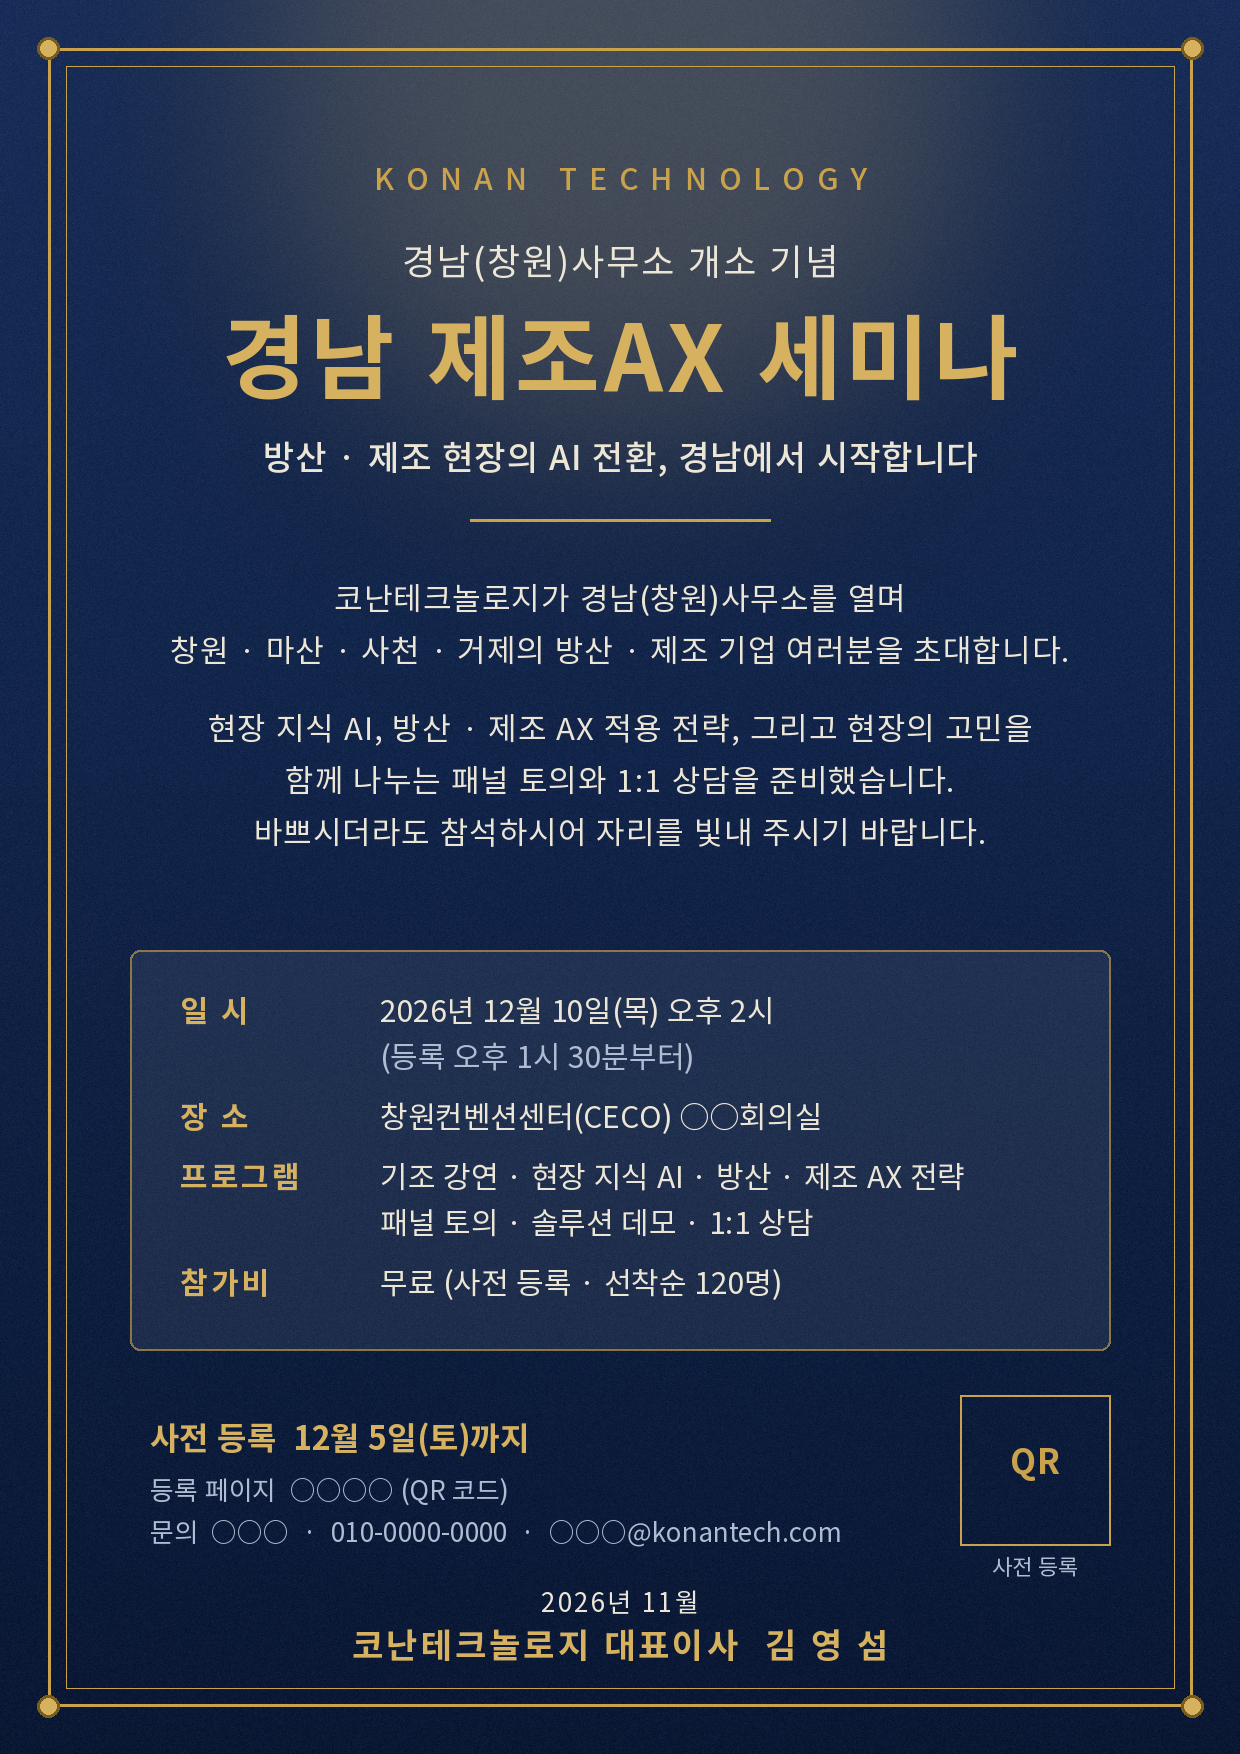
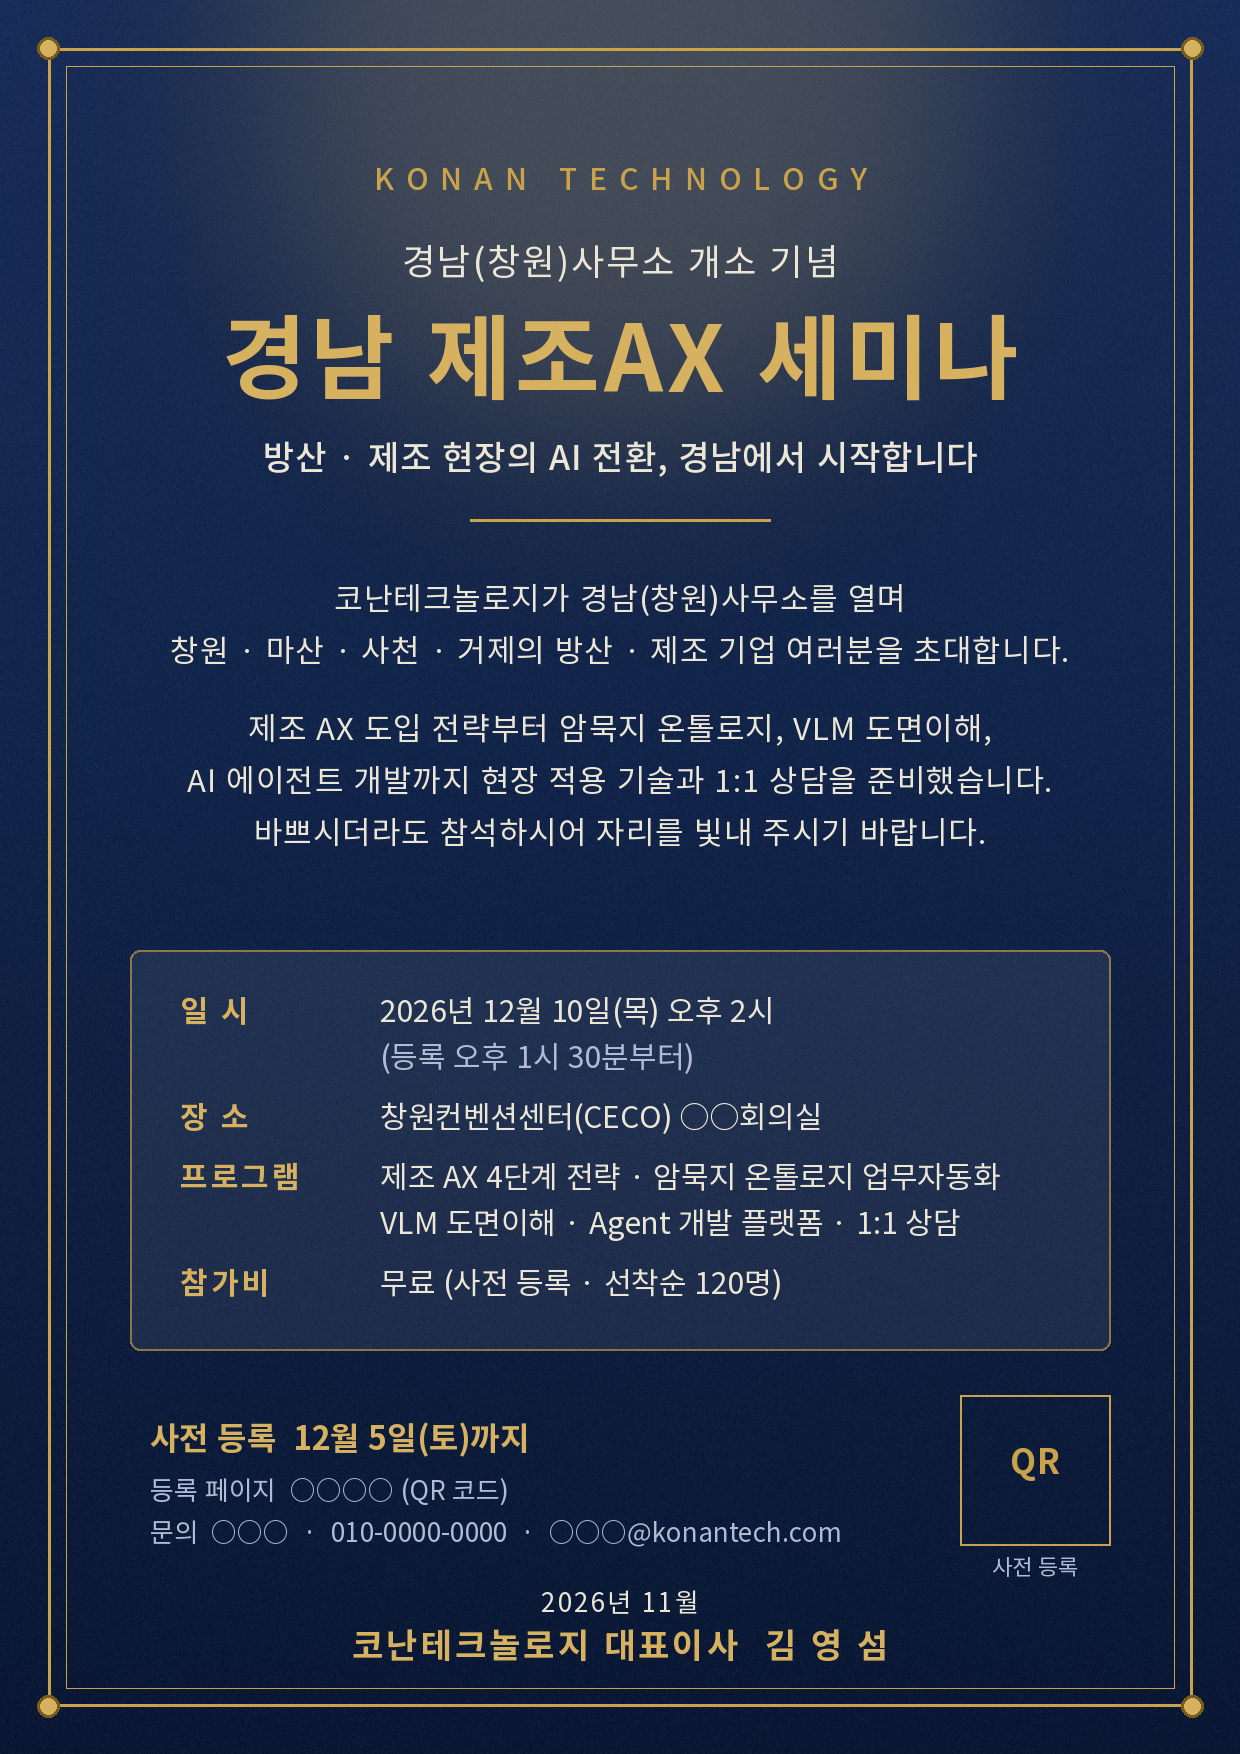
Update seminar program with four sessions and speakers; sync invitation and guest lists
Claude-Session: https://claude.ai/code/session_01SrTScNKmsHS34birk48N5j

Changed region(s): [[0.1532, 0.4002, 0.8274, 0.4618], [0.3065, 0.6465, 0.7968, 0.7081]]

diff --git a/output/invitation/seminar_invitation_text.md b/output/invitation/seminar_invitation_text.md
@@ -12,13 +12,13 @@
 코난테크놀로지가 경남(창원)사무소를 열며
 창원·마산·사천·거제의 방산·제조 기업 여러분을 초대합니다.
 
-현장 지식 AI, 방산·제조 AX 적용 전략, 그리고 현장의 고민을
-함께 나누는 패널 토의와 1:1 상담을 준비했습니다.
+제조 AX 도입 전략부터 암묵지 온톨로지, VLM 도면이해,
+AI 에이전트 개발까지 현장 적용 기술과 1:1 상담을 준비했습니다.
 바쁘시더라도 참석하시어 자리를 빛내 주시기 바랍니다.
 
 - 일시: 2026년 12월 10일(목) 오후 2시 (등록 오후 1시 30분부터)
 - 장소: 창원컨벤션센터(CECO) ○○회의실
-- 프로그램: 기조 강연 · 현장 지식 AI · 방산·제조 AX 전략 · 패널 토의 · 솔루션 데모 · 1:1 상담
+- 프로그램: 제조 AX 4단계 전략 · 암묵지 온톨로지 업무자동화 · VLM 도면이해 · Agent 개발 플랫폼 · 1:1 상담
 - 참가비: 무료 (사전 등록, 선착순 120명)
 - 사전 등록: 12월 5일(토)까지 — 등록 페이지 ○○○○ (QR 코드)
 - 문의: ○○○ · 010-0000-0000 · ○○○@konantech.com
@@ -38,16 +38,16 @@
 
 코난테크놀로지가 경남테크노파크 경남인공지능혁신본부에 경남(창원)사무소를 열고, 이를 기념해 창원·마산·사천·거제 지역 방산·제조 기업을 모시고 「경남 제조AX 세미나」를 개최합니다.
 
-현장의 문서·노하우를 AI로 활용하는 방법과 보안이 중요한 방산·제조 현장에서의 AI 도입 전략을 소개하고, 지역 기업·학계와 함께 실제 도입 과정의 어려움을 나누는 패널 토의를 준비했습니다. 행사 후에는 관심 분야별 1:1 상담도 진행합니다.
+제조 AX 도입 단계별 전략, 현장 암묵지를 온톨로지로 구조화한 업무자동화, VLM 기반 도면이해, AI 에이전트 개발 플랫폼까지 방산·제조 현장에 바로 적용할 수 있는 기술을 소개합니다. 행사 후에는 관심 분야별 1:1 상담도 진행합니다.
 
 - 일시: 2026년 12월 10일(목) 14:00 ~ 17:30 (등록 13:30부터)
 - 장소: 창원컨벤션센터(CECO) ○○회의실
 - 주요 내용
-  · 기조 강연: 경남 제조 AI 전환 정책과 지원사업
-  · 세션 1: 현장 지식 AI — SOP · 기술문서 지식 어시스턴트
-  · 세션 2: 방산 · 제조 현장 AX 적용 전략 (보안 · 온프레미스)
-  · 패널 토의: 방산 · 제조 현장의 AI 도입, 무엇이 막히나
-  · 솔루션 데모 · 1:1 상담
+  · 세션 1. 제조 AX 도입 4단계 전략 — 코난테크놀로지 김만수 상무
+  · 세션 2. 제조 암묵지 지식 온톨로지 설계 기술을 통한 업무자동화 서비스 — 코난테크놀로지 이현민 이사
+  · 세션 3. VLM 도면이해 기술 기반의 AX 서비스 — 창원대학교 김준 교수
+  · 세션 4. OpenCode 하네스 기반 Agent 개발 플랫폼 — 코난테크놀로지 박정선 이사
+  · 종합 Q&A · 솔루션 데모 · 1:1 상담
 - 참가비: 무료 (선착순 120명)
 - 사전 등록: 12월 5일(토)까지 → ○○○○ (등록 링크)
 
@@ -74,7 +74,7 @@
 
 [코난테크놀로지] 경남 제조AX 세미나에 초대합니다.
 · 12/10(목) 오후 2시, 창원컨벤션센터
-· 현장 지식 AI · 방산·제조 AX 전략 · 패널 토의 · 1:1 상담 (무료)
+· 제조 AX 전략 · 암묵지 온톨로지 · VLM 도면이해 · Agent 플랫폼 · 1:1 상담 (무료)
 사전 등록(12/5까지): ○○○○
 
 ---
